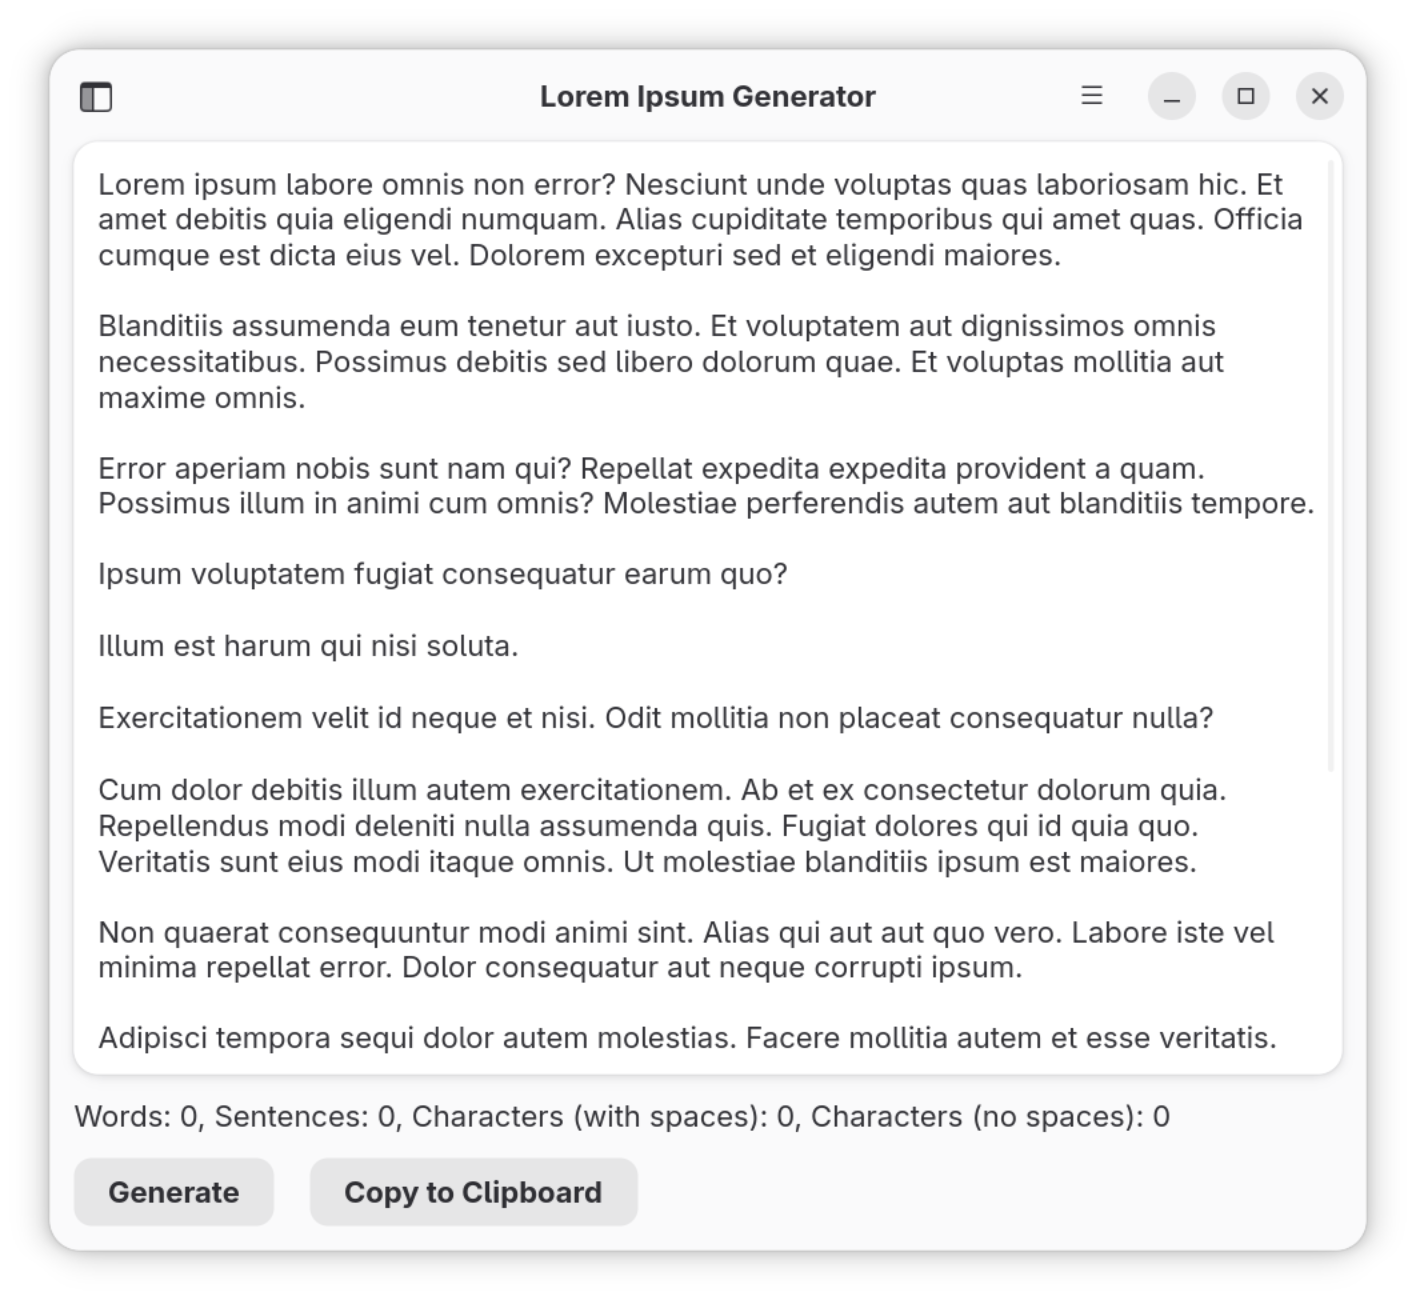
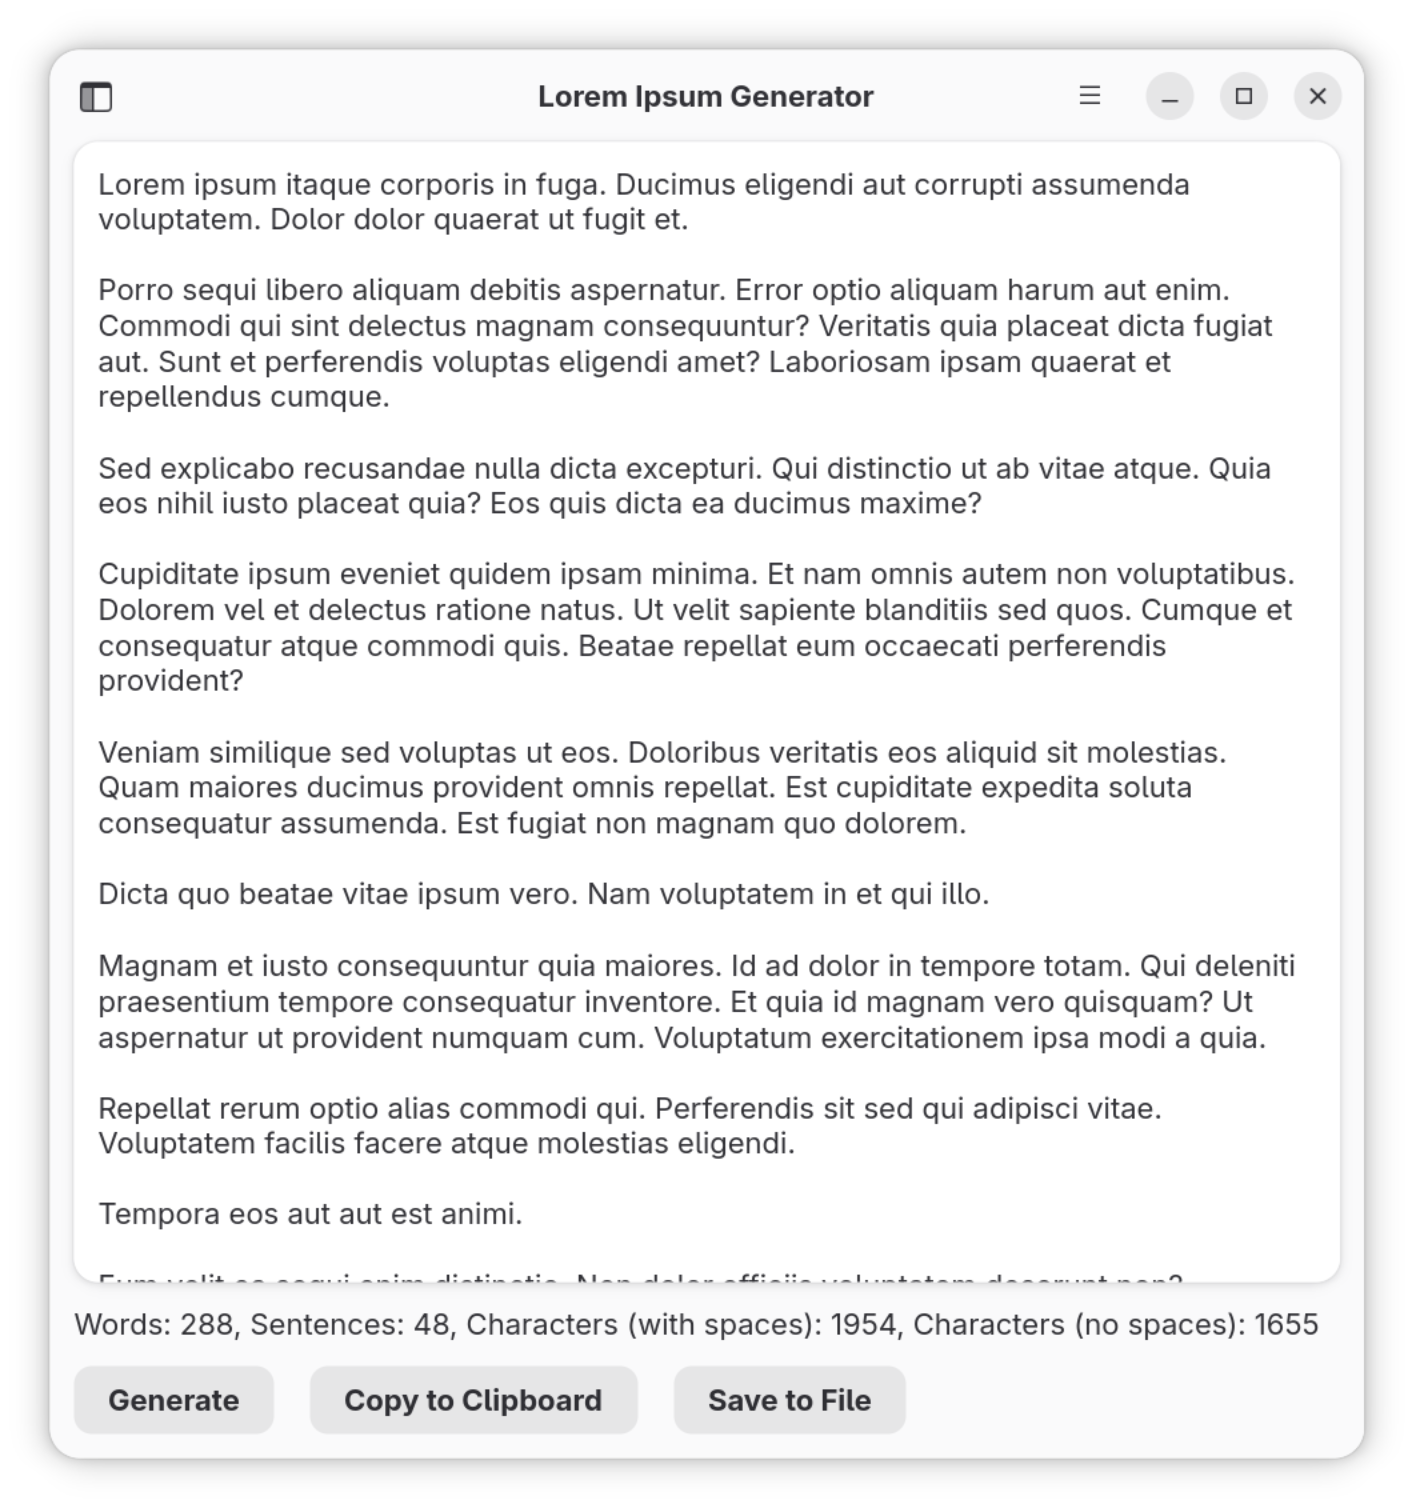
Add save to file feature/

Changed region(s): [[0.0311, 0.4923, 0.9646, 0.9846], [0.0311, 0.0308, 0.9646, 0.4615]]

diff --git a/src/main.rs b/src/main.rs
@@ -56,6 +56,7 @@ struct App {
     toast_overlay: Option<ToastOverlay>,
     text_view: Option<TextView>,
     is_collapsed: bool,
+    window: Option<adw::ApplicationWindow>,
 }
 
 #[derive(Debug)]
@@ -66,7 +67,8 @@ enum Messages {
     UpdateParagraphs(usize),
     ToggleStartWithLorem(bool),
     CopyToClipboard,
-    SetCollapsed(bool)
+    SetCollapsed(bool),
+    SaveToFile,
 }
 
 impl App {
@@ -298,6 +300,14 @@ impl SimpleComponent for App {
                                             sender.input(Messages::CopyToClipboard);
                                         },
                                     },
+                                    gtk::Button::with_mnemonic(&tr!("_Save to File")) {
+                                        #[watch]
+                                        set_sensitive: !model.result_text.is_empty(),
+                                        set_halign: Align::Start,
+                                        connect_clicked[sender] => move|_| {
+                                            sender.input(Messages::SaveToFile);
+                                        },
+                                    },
                                 },
                             }
                         }
@@ -336,6 +346,7 @@ impl SimpleComponent for App {
             sentence_count: 0,
             start_with_lorem: settings.start_with_lorem,
             toast_overlay: None,
+            window: None,
             text_view: None,
             is_collapsed: false,
         };
@@ -344,6 +355,7 @@ impl SimpleComponent for App {
 
         model.toast_overlay = Some(widgets.toast_overlay.clone());
         model.text_view = Some(widgets.result_text_view.clone());
+        model.window = Some(root.clone());
 
         let about_action =
             create_about_action(widgets.main_window.clone(), Self::get_app_version());
@@ -413,6 +425,29 @@ impl SimpleComponent for App {
             }
             Messages::SetCollapsed(state) => {
                 self.is_collapsed = state;
+            }
+            Messages::SaveToFile => {
+                let window = self.window.clone();
+                let toast_overlay = self.toast_overlay.clone();
+                let result_text = self.result_text.clone();
+
+                let dialog = gtk4::FileDialog::builder()
+                    .initial_name("output.txt")
+                    .build();
+
+                dialog.save(window.as_ref(), gio::Cancellable::NONE, move |result| {
+                    if let Ok(file) = result {
+                        if let Some(path) = file.path() {
+                            let _ = std::fs::write(&path, result_text.as_str());
+
+                            toast_overlay
+                                .clone()
+                                .unwrap()
+                                .add_toast(adw::Toast::new(&tr!("Saved to file")));
+                        }
+                    }
+                });
+                
             }
         }
     }
